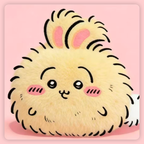
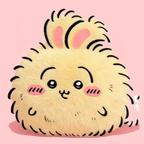
🎨 CSS圆形裁切猫猫币 - border-radius:50%消除白角
- .cat-coin-icon 添加 border-radius:50% + object-fit:cover
- 即使PNG有残留背景也会被裁切成完美圆形

diff --git a/public/index.html b/public/index.html
@@ -10,6 +10,7 @@
   <meta name="apple-mobile-web-app-status-bar-style" content="black-translucent">
   <title>峡谷讨伐日记</title>
   <link rel="manifest" href="/manifest.json">
+  <link rel="icon" href="/favicon.ico" sizes="48x48">
   <link rel="icon" type="image/png" sizes="48x48" href="/img/icon-48.png">
   <link rel="icon" type="image/png" sizes="96x96" href="/img/icon-96.png">
   <link rel="icon" type="image/png" sizes="192x192" href="/img/icon-192.png">

diff --git a/public/css/style.css b/public/css/style.css
@@ -4655,6 +4655,8 @@ form {
   width: 22px;
   height: 22px;
   vertical-align: middle;
+  border-radius: 50%;
+  object-fit: cover;
   filter: drop-shadow(0 1px 2px rgba(218, 165, 32, 0.4));
   transition: transform 0.3s ease;
 }
